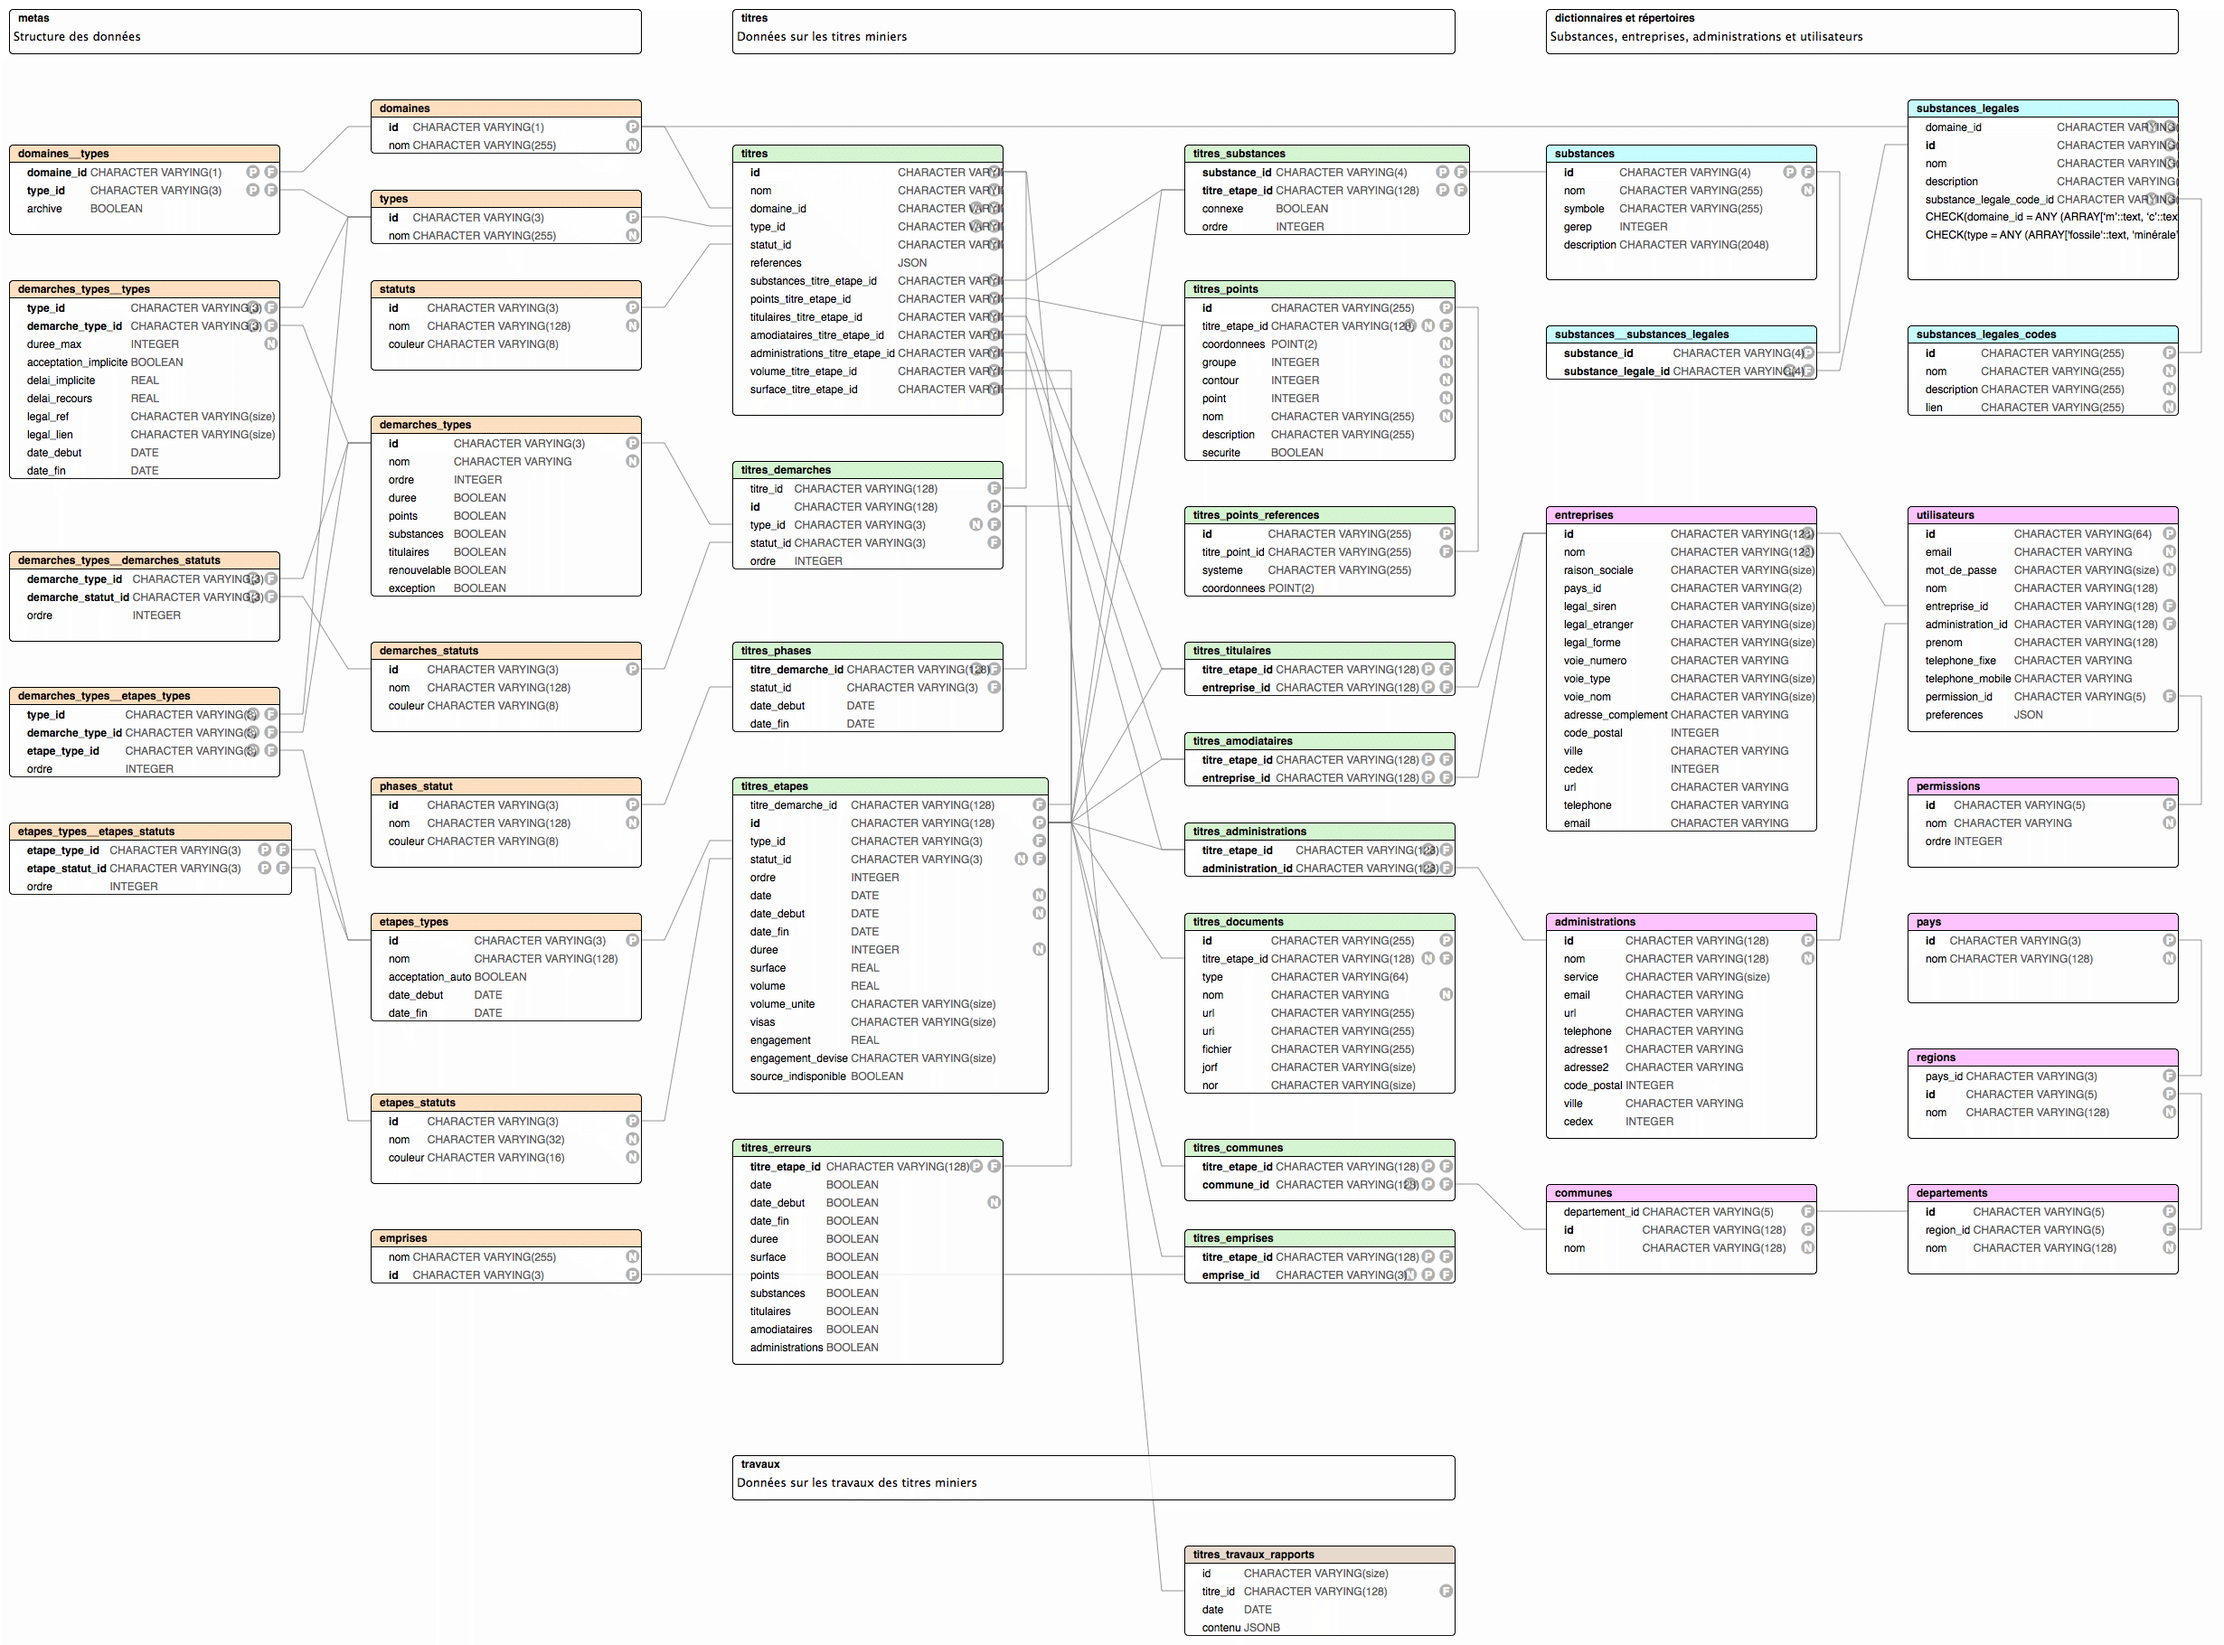
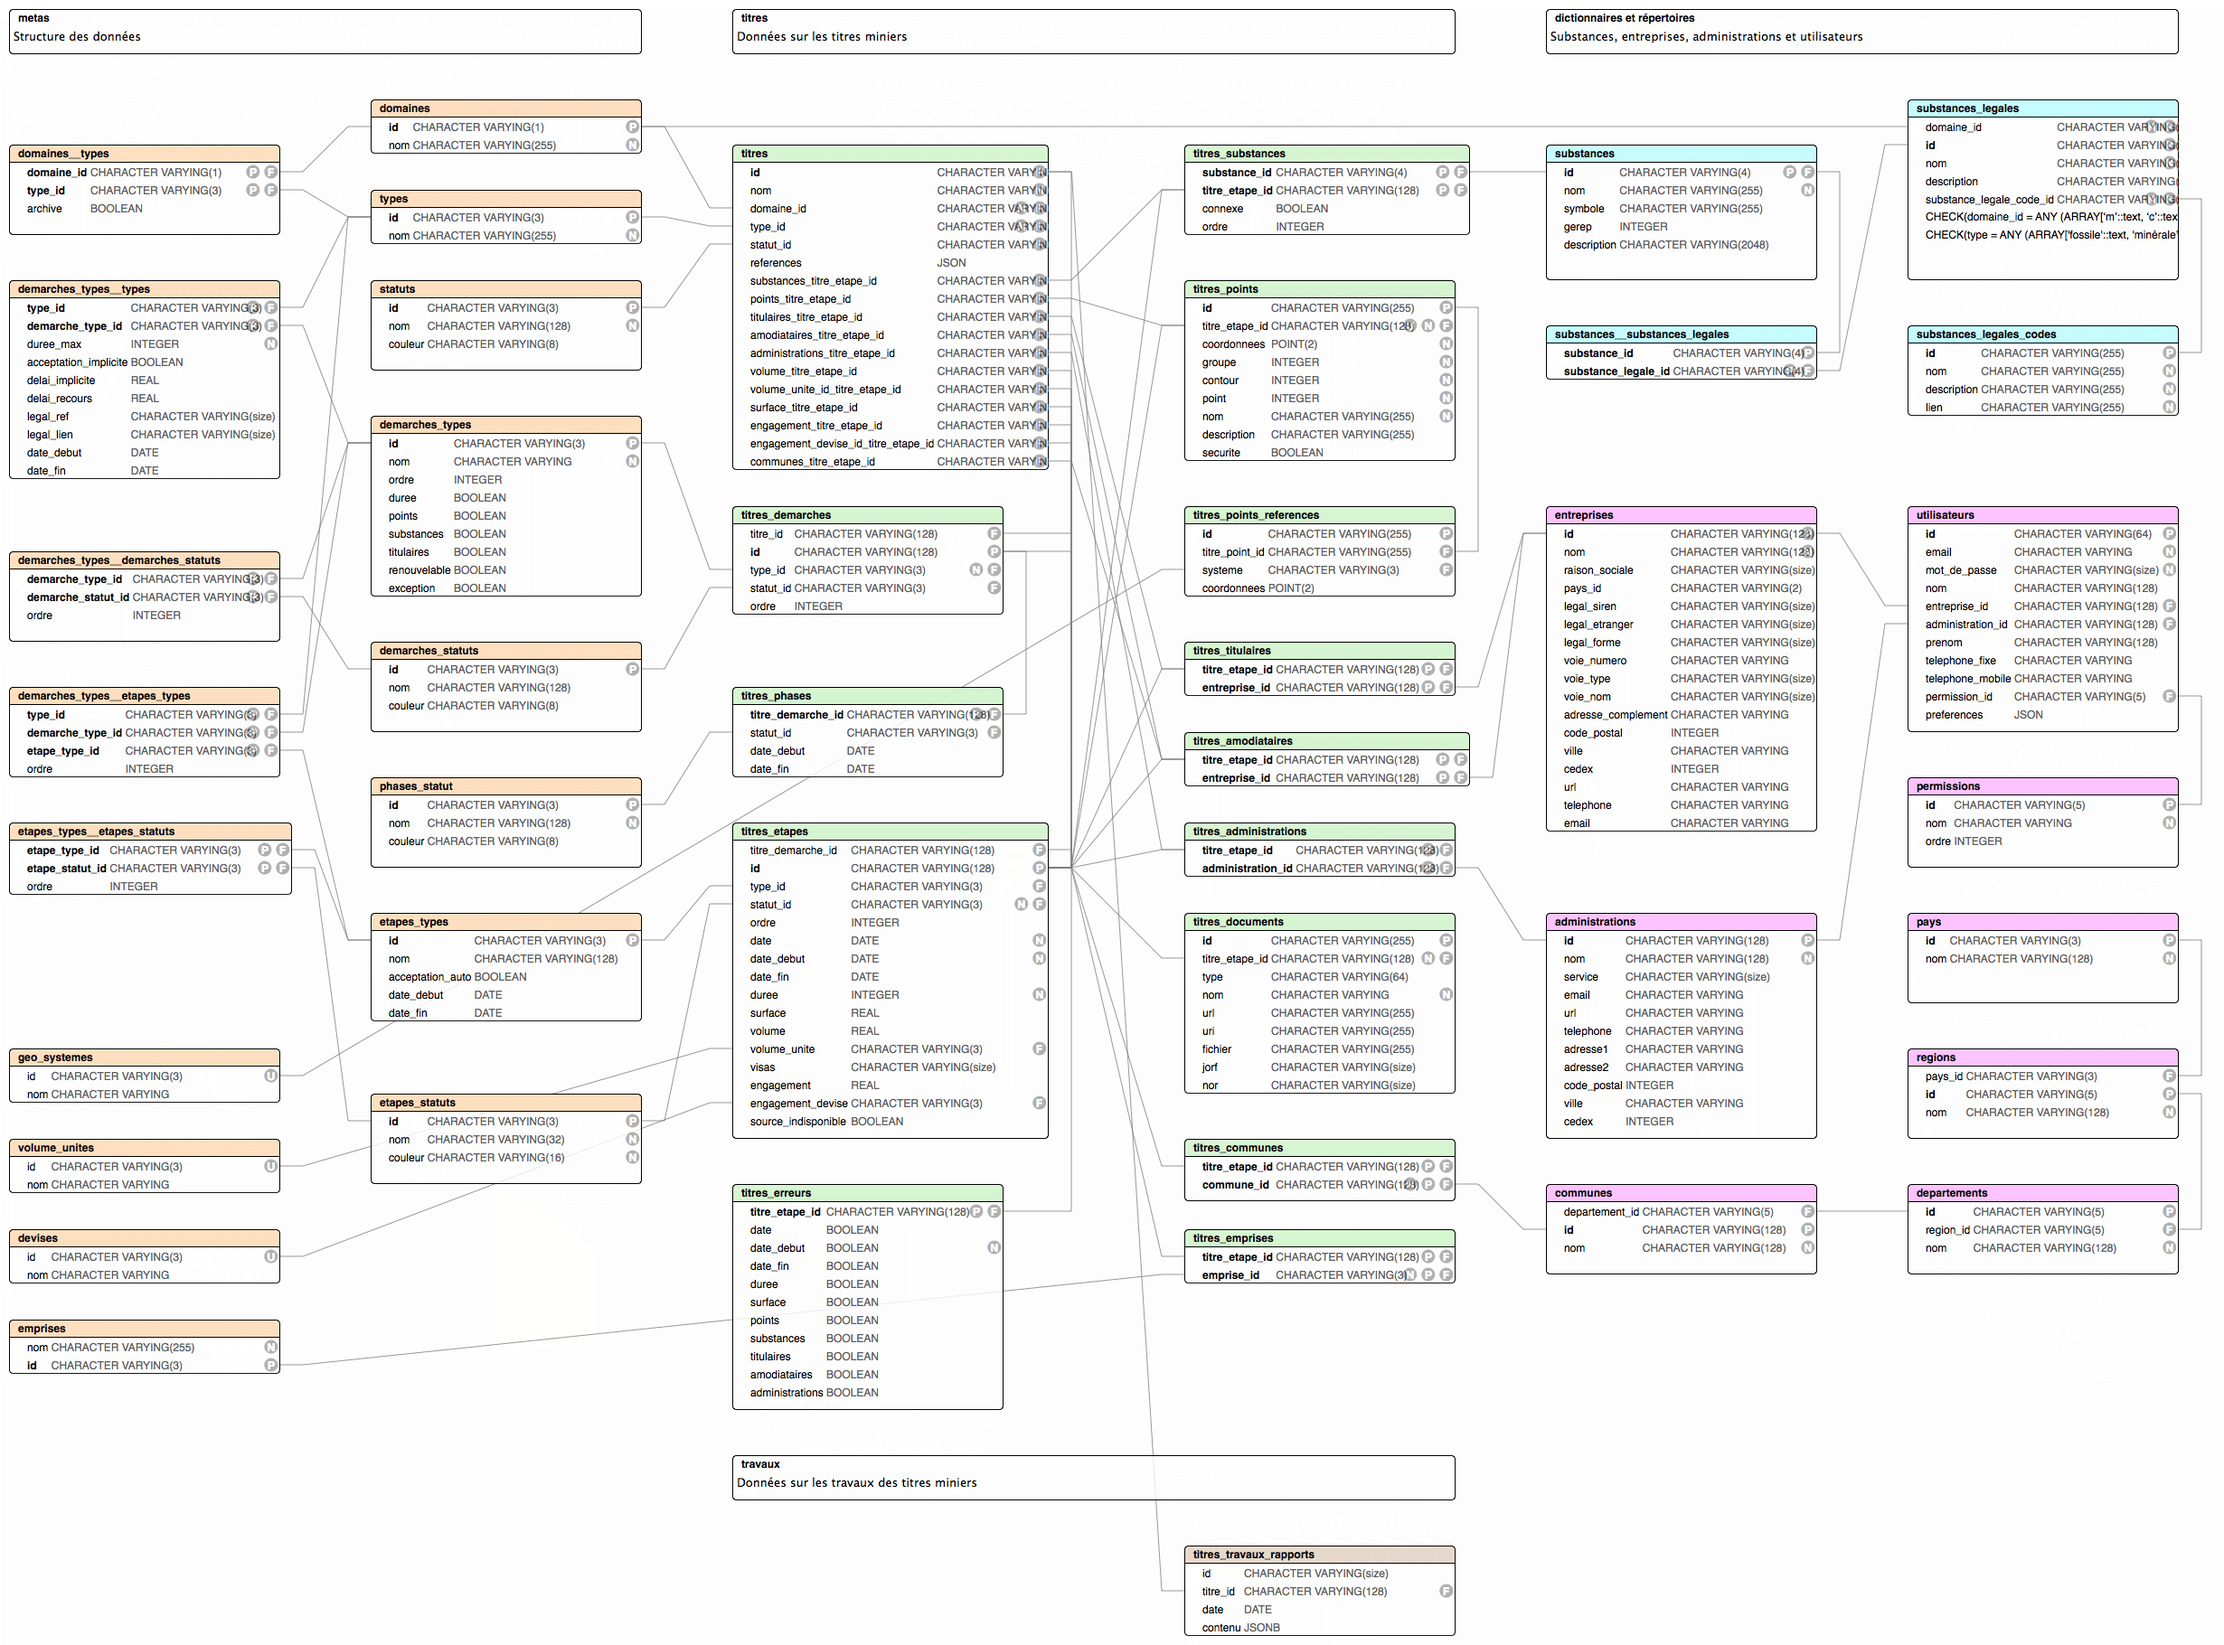
feat: expose l'engagement financier à la racine du titre

diff --git a/src/database/models/titres.js b/src/database/models/titres.js
@@ -11,6 +11,7 @@ import Administrations from './administrations'
 import Communes from './communes'
 import TitresTravauxRapports from './titres-travaux-rapports'
 import VolumeUnites from './volume-unites'
+import Devises from './devises'
 
 export default class Titres extends Model {
   static tableName = 'titres'
@@ -35,7 +36,13 @@ export default class Titres extends Model {
       },
       surfaceTitreEtapeId: { type: ['string', 'null'], maxLength: 128 },
       volumeTitreEtapeId: { type: ['string', 'null'], maxLength: 128 },
-      communesTitreEtapeId: { type: ['string', 'null'], maxLength: 128 }
+      volumeUniteIdTitreEtapeId: { type: ['string', 'null'], maxLength: 128 },
+      communesTitreEtapeId: { type: ['string', 'null'], maxLength: 128 },
+      engagementTitreEtapeId: { type: ['string', 'null'], maxLength: 128 },
+      engagementDeviseIdTitreEtapeId: {
+        type: ['string', 'null'],
+        maxLength: 128
+      }
     }
   }
 
@@ -100,12 +107,35 @@ export default class Titres extends Model {
       relation: Model.HasOneThroughRelation,
       modelClass: VolumeUnites,
       join: {
-        from: 'titres.volumeTitreEtapeId',
+        from: 'titres.volumeUniteIdTitreEtapeId',
         through: {
           from: 'titresEtapes.id',
           to: 'titresEtapes.volumeUniteId'
         },
         to: 'volumeUnites.id'
+      }
+    },
+
+    engagementEtape: {
+      relation: Model.BelongsToOneRelation,
+      modelClass: TitresEtapes,
+      join: {
+        from: 'titres.engagementTitreEtapeId',
+        to: 'titresEtapes.id'
+      },
+      modify: builder => builder.select('engagement')
+    },
+
+    engagementDevise: {
+      relation: Model.HasOneThroughRelation,
+      modelClass: Devises,
+      join: {
+        from: 'titres.engagementDeviseIdTitreEtapeId',
+        through: {
+          from: 'titresEtapes.id',
+          to: 'titresEtapes.engagementDeviseId'
+        },
+        to: 'devises.id'
       }
     },
 

diff --git a/knex/migrations/20180522134857_titres_demarches_etapes.js b/knex/migrations/20180522134857_titres_demarches_etapes.js
@@ -85,11 +85,23 @@ exports.up = knex => {
         .references('titresEtapes.id')
         .onDelete('CASCADE')
       table
+        .string('volumeUniteIdTitreEtapeId', 128)
+        .references('titresEtapes.id')
+        .onDelete('CASCADE')
+      table
         .string('substancesTitreEtapeId', 128)
         .references('titresEtapes.id')
         .onDelete('CASCADE')
       table
         .string('communesTitreEtapeId', 128)
+        .references('titresEtapes.id')
+        .onDelete('CASCADE')
+      table
+        .string('engagementTitreEtapeId', 128)
+        .references('titresEtapes.id')
+        .onDelete('CASCADE')
+      table
+        .string('engagementDeviseIdTitreEtapeId', 128)
         .references('titresEtapes.id')
         .onDelete('CASCADE')
     })
@@ -105,7 +117,10 @@ exports.down = knex => {
       table.dropColumn('administrationsTitreEtapeId')
       table.dropColumn('surfaceTitreEtapeId')
       table.dropColumn('volumeTitreEtapeId')
+      table.dropColumn('volumeUniteIdTitreEtapeId')
       table.dropColumn('communesTitreEtapeId')
+      table.dropColumn('engagementTitreEtapeId')
+      table.dropColumn('engagementDeviseIdTitreEtapeId')
     })
     .dropTable('titresEtapes')
     .dropTable('titresPhases')

diff --git a/src/database/queries/_options.js b/src/database/queries/_options.js
@@ -77,7 +77,7 @@ const titres = {
     entreprises.eager
   }, administrations.${administrations.eager}, demarches(orderDesc).${
     demarches.eager
-  }, surfaceEtape, volumeEtape, volumeUnite, travauxRapports, communes.${
+  }, surfaceEtape, volumeEtape, volumeUnite, engagementEtape, engagementDevise, travauxRapports, communes.${
     communes.eager
   }]`,
   update: {

diff --git a/src/api/schemas/titres.ts b/src/api/schemas/titres.ts
@@ -59,6 +59,12 @@ type Titre {
   "L'unité du volume du titre dans son dernier état de validité"
   volumeUnite: VolumeUnite
 
+  "Le montant de l'engagement financier du titulaire"
+  engagement: Float
+
+  "La devise de l'engagement financier du titulaire"
+  engagementDevise: Devise
+
   "Les rapports de travaux"
   travauxRapports: [TitreTravauxRapport]
 }

diff --git a/src/tasks/queries/titres.js b/src/tasks/queries/titres.js
@@ -8,8 +8,11 @@ const calculatedProps = [
   'administrations',
   'surface',
   'volume',
+  'volumeUniteId',
   'substances',
-  'communes'
+  'communes',
+  'engagement',
+  'engagementDeviseId'
 ]
 
 const titreStatutIdUpdate = (titre, statutId) =>

diff --git a/src/api/resolvers/_format.js b/src/api/resolvers/_format.js
@@ -39,6 +39,10 @@ const titreFormat = t => {
     t.volume = t.volumeEtape.volume
   }
 
+  if (t.engagementEtape) {
+    t.engagement = t.engagementEtape.engagement
+  }
+
   if (t.surfaceEtape) {
     t.surface = t.surfaceEtape.surface
   }
